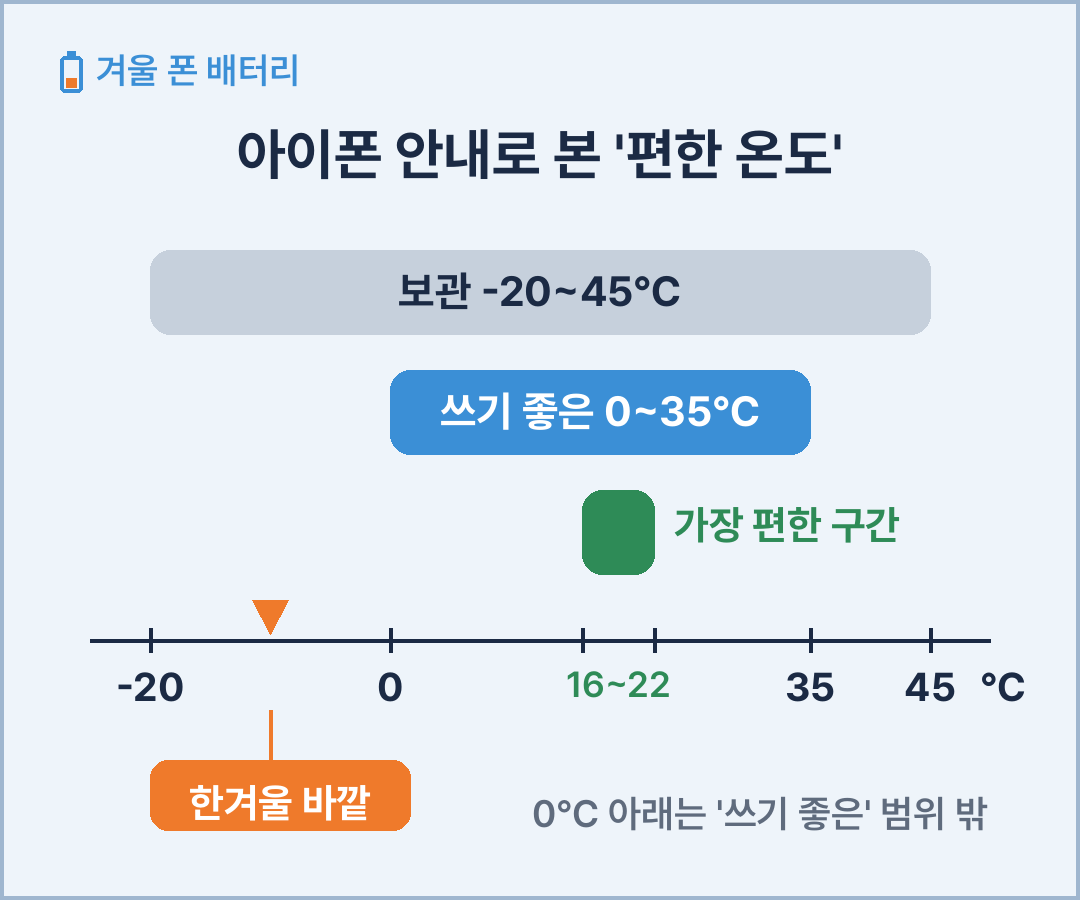
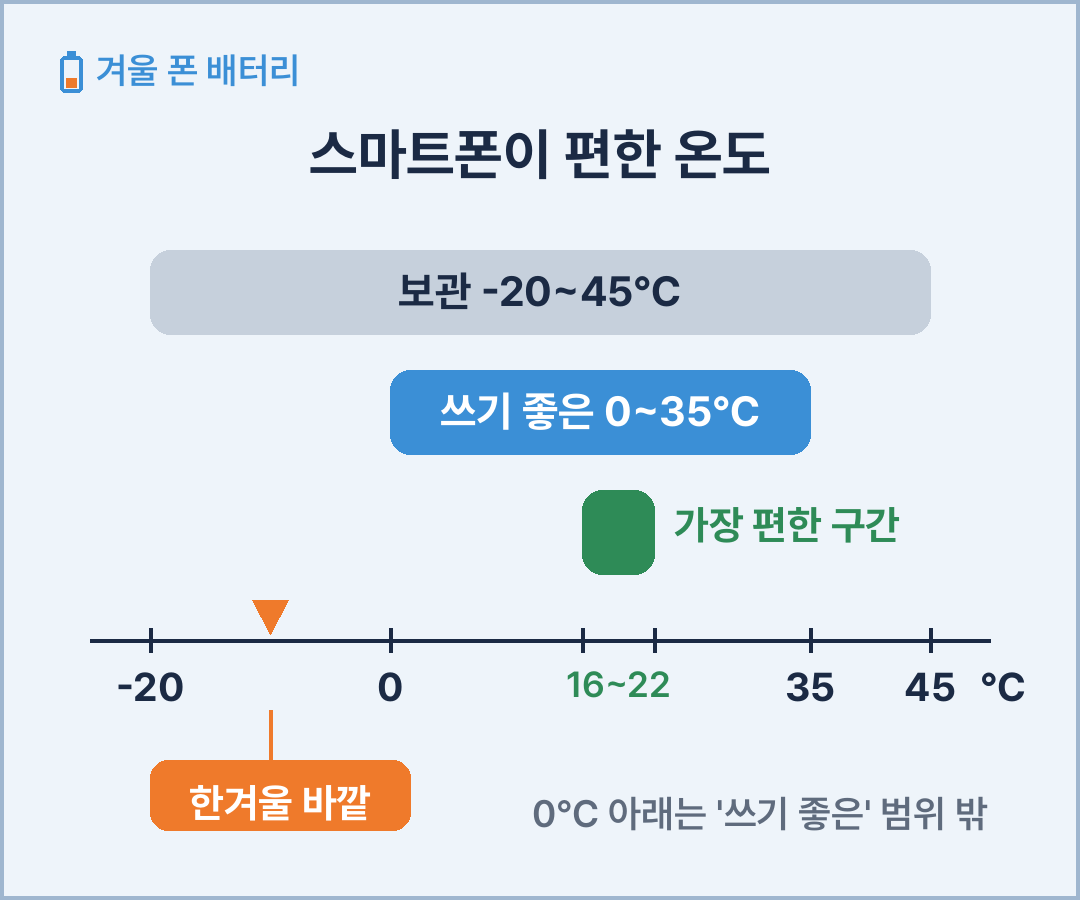
겨울철 폰 배터리 글: 본문·태그·그림에서 아이폰·갤럭시·애플 표현 제거
Claude-Session: https://claude.ai/code/session_01AQu82WJQ9QwefAwmBKgwrq

Changed region(s): [[0.2139, 0.1244, 0.7639, 0.2178]]

diff --git a/문서/네이버-코딩가이드/20261128_겨울-폰-배터리/index.html b/문서/네이버-코딩가이드/20261128_겨울-폰-배터리/index.html
@@ -4,9 +4,9 @@
 블로그: 네이버 코딩가이드
 카테고리: 컴퓨터·IT
 글 제목: 겨울철 스마트폰 배터리 빨리 닳는 이유와 덜 닳게 쓰는 법
-태그: #겨울철배터리 #스마트폰배터리 #폰배터리 #배터리빨리닳음 #휴대폰꺼짐 #아이폰배터리 #갤럭시배터리 #배터리관리 #리튬이온배터리 #겨울철휴대폰
-검색 설명: 추운 날 배터리가 남았는데도 휴대폰이 꺼지는 이유를 삼성전자·애플 안내로 정리했습니다. 내부저항과 전압 이야기, 폰이 편한 온도, 겨울에 덜 닳게 쓰는 법과 배터리 교체를 생각할 때까지 담았습니다.
-글자 수: 본문 공백 포함 1,403자 / 공백 제외 1,090자
+태그: #겨울철배터리 #스마트폰배터리 #폰배터리 #배터리빨리닳음 #휴대폰꺼짐 #휴대폰배터리 #배터리꺼짐 #배터리관리 #리튬이온배터리 #겨울철휴대폰
+검색 설명: 추운 날 배터리가 남았는데도 휴대폰이 꺼지는 이유를 제조사 안내로 정리했습니다. 내부저항과 전압 이야기, 폰이 편한 온도, 겨울에 덜 닳게 쓰는 법과 배터리 교체를 생각할 때까지 담았습니다.
+글자 수: 본문 공백 포함 1,391자 / 공백 제외 1,082자
 글 성격: 사용자 지정 '폰글'(예전 이름 '짧은글', 폰에서 가볍게 올리는 글. 독자는 폰 글인지 모르게 평소 형식 그대로). 이미지는 요청 없이 AI가 모두 직접 만듦. 폰 붙여넣기용 텍스트는 같은 폴더 `복사용.txt`.
 계기: 사용자가 주제 제안 목록의 3번 「겨울철 스마트폰 배터리가 빨리 닳는 이유와 대처법」을 고름(2026-11-28 KST).
 
@@ -16,6 +16,7 @@
 - 02-추우면-꺼지는-이유.png (AI, 세로 1152×1262, 둥근 카드) — 같은 40%라도 추우면 전압이 '꺼지는 선' 아래로 내려가 꺼진다는 것을 나란히 보여 줌(개념 예시).
 - 03-폰이-편한-온도.png (AI, 1080×900, 얇은 선) — 애플 안내 온도(보관 -20~45℃, 사용 0~35℃, 가장 편한 16~22℃)를 온도 띠로, 한겨울 바깥이 범위 밖임을 보여 줌.
 - 04-함께-보면-좋은-글.png (AI 배너, 1600×234)
+[수정 11.28] 사용자 지시로 본문·태그·그림에서 아이폰·갤럭시·애플 표현을 뺌(같은 이유로 삼성전자도 '제조사'로 바꿈). 03 그림 제목 '아이폰 안내로 본 편한 온도' → '스마트폰이 편한 온도'. 배터리 상태 확인 경로 목록은 기기 이름이 들어가 문장 하나로 바꿈. 근거 출처는 아래 [근거]에 그대로 둠.
 - ChatGPT 요청 없음(폰글 규칙).
 
 [근거]
@@ -35,27 +36,25 @@
 <hr style="border:none;border-top:1px solid #cfcfcf;margin:8px 0;">
 <h2 style="font-size:24px;margin:40px 0 12px;">추우면 배터리 안에서 생기는 일</h2>
 <p style="font-size:16px;">스마트폰에는 리튬이온 배터리가 들어 있습니다.<br>안에서 화학 반응이 일어나며 전기를 만듭니다.</p>
-<p style="font-size:16px;">날이 추우면 이 반응이 굼떠집니다.<br>삼성전자 안내로는 이때 배터리의 '내부저항'이 잠시 커지고, 전압이 더 크게 떨어집니다.</p>
+<p style="font-size:16px;">날이 추우면 이 반응이 굼떠집니다.<br>제조사 안내로는 이때 배터리의 '내부저항'이 잠시 커지고, 전압이 더 크게 떨어집니다.</p>
 <p style="font-size:16px;">휴대폰은 전압이 너무 낮아지면 부품을 지키려고 스스로 꺼집니다.<br>그래서 배터리 숫자가 남아 있어도 꺼질 수 있는 겁니다.</p>
 
 <p style="font-size:16px;color:#e60000;font-weight:bold;">[[ 이미지: 추우면 꺼지는 이유 (02-추우면-꺼지는-이유.png) ]]</p>
 
 <p>&nbsp;</p>
 <h3 style="font-size:18px;margin:24px 0 8px;">◆ 배터리가 망가진 걸까?</h3>
-<p style="font-size:16px;">대부분은 잠깐 그런 겁니다.<br>애플 안내에 따르면 따뜻한 곳으로 돌아오면 배터리 사용 시간도 정상으로 돌아옵니다.</p>
-<p style="font-size:16px;">다만 오래 쓴 배터리라면 이야기가 조금 다릅니다.<br>삼성전자서비스는 겨울철에 갑자기 꺼지는 현상을 배터리 수명이 다해 간다는 신호 가운데 하나로 꼽습니다.</p>
-<p style="font-size:16px;">작년 겨울보다 유독 자주 꺼진다면 배터리 상태를 한번 확인해 보세요.</p>
-<p style="font-size:16px;">• 아이폰: 설정 → 배터리에서 '배터리 성능 상태'</p>
-<p style="font-size:16px;">• 갤럭시: Samsung Members 앱의 진단에서 '배터리 상태'</p>
+<p style="font-size:16px;">대부분은 잠깐 그런 겁니다.<br>제조사 안내로도 따뜻한 곳으로 돌아오면 배터리 사용 시간이 정상으로 돌아옵니다.</p>
+<p style="font-size:16px;">다만 오래 쓴 배터리라면 이야기가 조금 다릅니다.<br>제조사 서비스센터도 겨울철에 갑자기 꺼지는 현상을 배터리 수명이 다해 간다는 신호 가운데 하나로 꼽습니다.</p>
+<p style="font-size:16px;">작년 겨울보다 유독 자주 꺼진다면 배터리 상태를 한번 확인해 보세요.<br>휴대폰 설정의 배터리 메뉴나 제조사 진단 앱에서 볼 수 있습니다.</p>
 
 <p>&nbsp;</p>
 <hr style="border:none;border-top:1px solid #cfcfcf;margin:8px 0;">
 <h2 style="font-size:24px;margin:40px 0 12px;">폰이 편한 온도는 몇 도일까?</h2>
-<p style="font-size:16px;">애플은 아이폰을 0~35℃에서 쓰도록 만들었다고 안내합니다.<br>가장 좋은 온도는 16~22℃로 봅니다.</p>
+<p style="font-size:16px;">제조사 안내를 보면 스마트폰은 0~35℃에서 쓰도록 만들어졌습니다.<br>가장 좋은 온도는 16~22℃ 정도입니다.</p>
 
 <p style="font-size:16px;color:#e60000;font-weight:bold;">[[ 이미지: 폰이 편한 온도 (03-폰이-편한-온도.png) ]]</p>
 
-<p style="font-size:16px;">영하의 바깥에서 맨손에 폰을 오래 쥐고 있으면 이 범위를 금방 벗어납니다.<br>갤럭시도 배터리 원리는 같아서, 추위에 약한 건 마찬가지입니다.</p>
+<p style="font-size:16px;">영하의 바깥에서 맨손에 폰을 오래 쥐고 있으면 이 범위를 금방 벗어납니다.<br>스마트폰 배터리는 원리가 같아서, 어느 폰이든 추위에 약한 건 마찬가지입니다.</p>
 <p style="font-size:16px;">폰이 너무 차가우면 충전이 안 되거나 중간에 멈추기도 합니다.<br>밖에서 들어왔다면 잠시 실내 온도에 맞춘 뒤 충전기를 꽂는 게 낫습니다.</p>
 
 <p>&nbsp;</p>
@@ -70,7 +69,7 @@
 
 <p>&nbsp;</p>
 <h3 style="font-size:18px;margin:24px 0 8px;color:#d9661c;">◆ 이건 피하세요</h3>
-<p style="font-size:16px;">빨리 데우겠다고 핫팩에 붙이거나 히터 앞에 두는 건 좋지 않습니다.<br>애플은 35℃가 넘는 곳에 두면 배터리 용량이 영구적으로 줄 수 있다고 안내합니다.</p>
+<p style="font-size:16px;">빨리 데우겠다고 핫팩에 붙이거나 히터 앞에 두는 건 좋지 않습니다.<br>제조사 안내로는 35℃가 넘는 곳에 두면 배터리 용량이 영구적으로 줄 수 있다고 안내합니다.</p>
 <p style="font-size:16px;">추위는 잠깐이지만, 열은 흔적을 남기는 셈입니다.<br>체온 정도로 천천히 데우는 게 가장 안전합니다.</p>
 
 <p>&nbsp;</p>

diff --git a/도구/폰글이미지_겨울폰배터리.py b/도구/폰글이미지_겨울폰배터리.py
@@ -120,7 +120,7 @@ def temp_band():
     W, H = 1080, 900
     im = Image.new("RGB", (W, H), BG); d = ImageDraw.Draw(im)
     kicker(d, 60, 48)
-    ctext(d, W / 2, 120, "아이폰 안내로 본 '편한 온도'", F(56), INK)
+    ctext(d, W / 2, 120, "스마트폰이 편한 온도", F(56), INK)
     x0, x1, t0, t1 = 90, 990, -25, 50
     X = lambda t: x0 + (x1 - x0) * (t - t0) / (t1 - t0)
     # 온도 축
